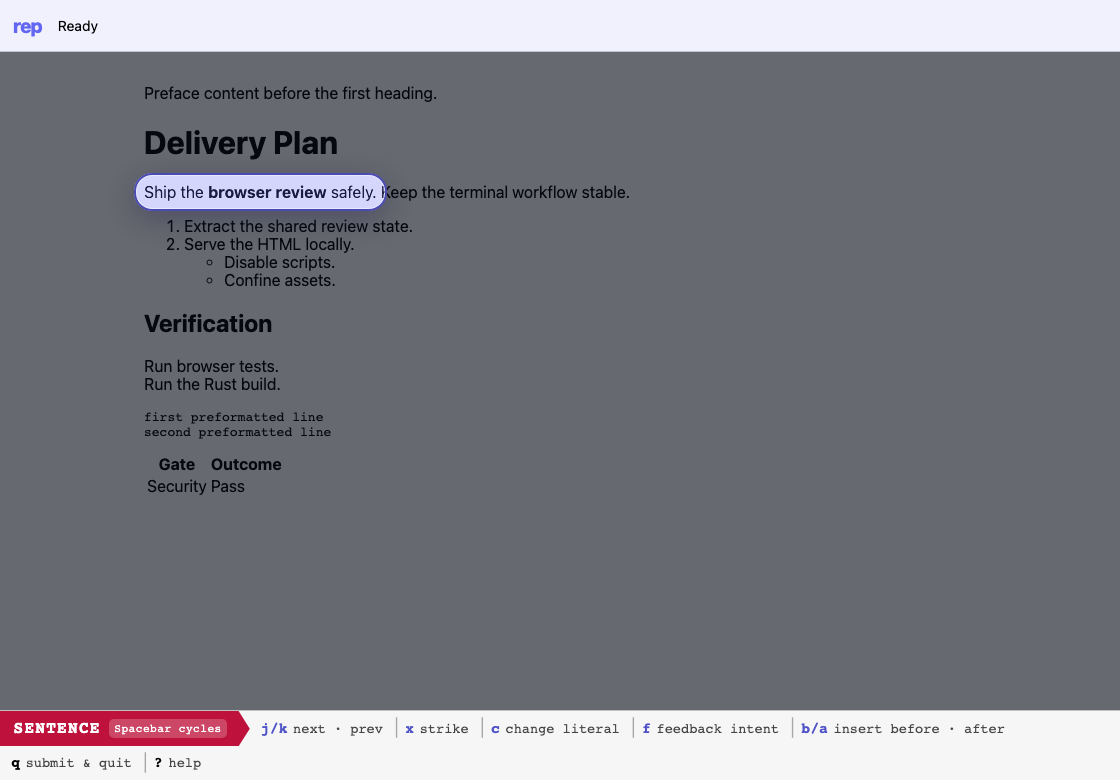
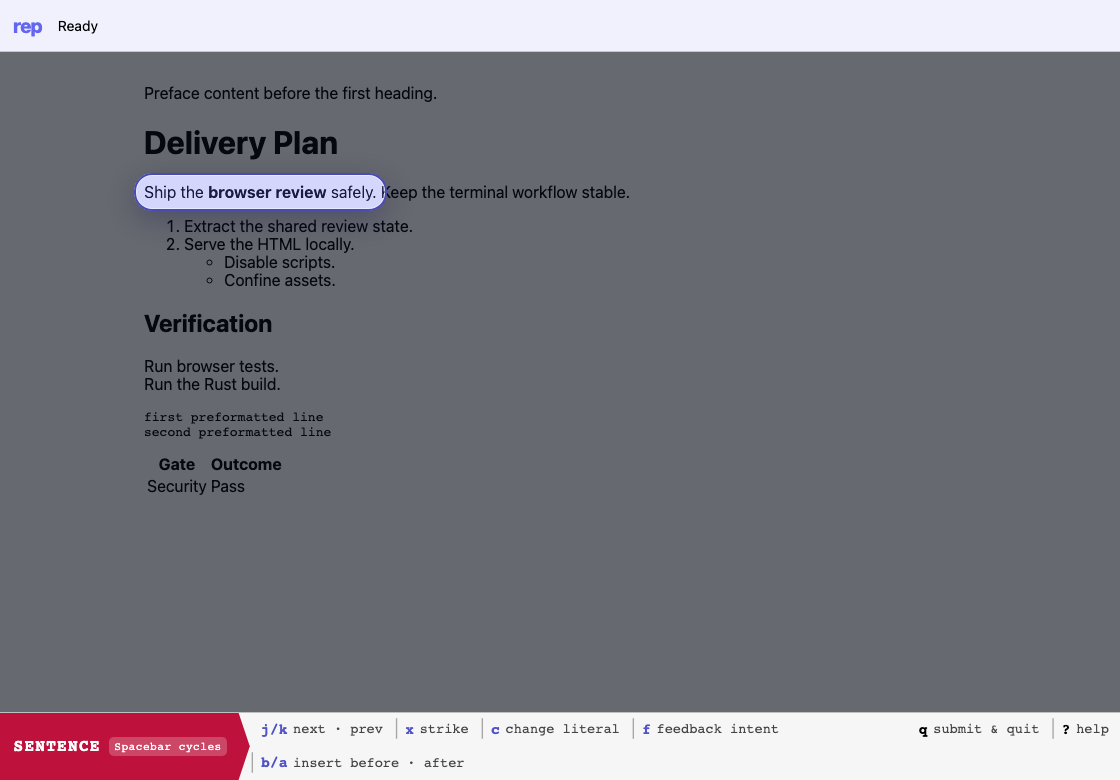
Hold the statusline session keys against the right edge
The bar wrapped as a whole, so a constrained desktop window pushed q and
? onto their own left-aligned second row. Split the legend into a usage
group that wraps inside itself and a non-shrinking session group, and
stop the bar wrapping, so the usage keys are the ones that give way while
q and ? keep the first row and the right edge.

The bar sits in an overflow-hidden workspace, so below roughly 772px the
session keys were being clipped rather than scrolled, and the usage keys
needed four rows to fit. Move the compact grid breakpoint to 48rem, above
both thresholds, and cover the constrained case in the browser tests.

Changed region(s): [[0.0, 0.8923, 1.0, 1.0], [0.375, 0.9538, 0.4062, 0.9846]]

diff --git a/src/web/app.css b/src/web/app.css
@@ -205,7 +205,6 @@ iframe.empty {
   border-top: 1px solid color-mix(in srgb, CanvasText 22%, transparent);
   bottom: 0;
   display: flex;
-  flex-wrap: wrap;
   font-family: ui-monospace, SFMono-Regular, Consolas, monospace;
   left: 0;
   padding-bottom: env(safe-area-inset-bottom, 0px);
@@ -245,8 +244,18 @@ iframe.empty {
   font: inherit;
 }
 
+/* The bar itself never wraps, so the session keys keep the right edge at every
+   width; the usage keys wrap inside their own group instead. */
 .review-hud-commands {
-  display: contents;
+  display: flex;
+  flex: 1 1 auto;
+  flex-wrap: wrap;
+}
+
+.review-hud-session {
+  align-items: flex-start;
+  display: flex;
+  flex: none;
 }
 
 .review-hud-command {
@@ -282,10 +291,6 @@ iframe.empty {
 .review-hud-label {
   color: color-mix(in srgb, CanvasText 72%, transparent);
   font-size: .85rem;
-}
-
-.review-hud-spacer {
-  flex: 1 1 2rem;
 }
 
 .completion {
@@ -338,7 +343,9 @@ body.finished .completion:not([hidden]) {
   display: grid;
 }
 
-@media (max-width: 38rem) {
+/* Below this the statusline needs more rows than it is worth and the session
+   keys start running off the clipped edge, so the legend becomes a grid. */
+@media (max-width: 48rem) {
   .review-hud {
     display: grid;
     grid-template-columns: repeat(2, minmax(0, 1fr));
@@ -348,6 +355,11 @@ body.finished .completion:not([hidden]) {
     clip-path: none;
     grid-column: 1 / -1;
     justify-content: center;
+  }
+
+  .review-hud-commands,
+  .review-hud-session {
+    display: contents;
   }
 
   .review-hud-command {
@@ -361,9 +373,5 @@ body.finished .completion:not([hidden]) {
 
   .review-hud-label {
     font-size: .78rem;
-  }
-
-  .review-hud-spacer {
-    display: none;
   }
 }

diff --git a/src/web/app.html b/src/web/app.html
@@ -32,7 +32,8 @@
         <span class="review-hud-command"><span class="review-hud-keys"><kbd>c</kbd></span> <span class="review-hud-label">change literal</span></span>
         <span class="review-hud-command"><span class="review-hud-keys"><kbd>f</kbd></span> <span class="review-hud-label">feedback intent</span></span>
         <span class="review-hud-command"><span class="review-hud-keys"><kbd>b</kbd>/<kbd>a</kbd></span> <span class="review-hud-label">insert before · after</span></span>
-        <span class="review-hud-spacer" aria-hidden="true"></span>
+      </span>
+      <span class="review-hud-session">
         <span class="review-hud-command is-session"><span class="review-hud-keys"><kbd>q</kbd></span> <span class="review-hud-label">submit &amp; quit</span></span>
         <span class="review-hud-command is-session"><span class="review-hud-keys"><kbd>?</kbd></span> <span class="review-hud-label">help</span></span>
       </span>

diff --git a/docs/release-checklist.md b/docs/release-checklist.md
@@ -48,8 +48,9 @@ Linux. Chromium is covered by the automated gate.
       without changing the plan DOM layout.
 - [ ] Confirm the full-width bottom statusline remains pinned and legible, that
       its mode block names the active selection unit and changes colour with it,
-      and that the segments wrap without horizontal overflow at narrow viewport
-      widths.
+      that narrowing the window wraps the usage keys while `q` and `?` hold the
+      right edge, and that the legend becomes a two-column grid rather than
+      running off the edge at phone widths.
 - [ ] Confirm the active selection fill, border, halo, and leading focus bar
       remain legible over both light and dark plan colors, while annotation
       patterns and badges remain distinguishable.
